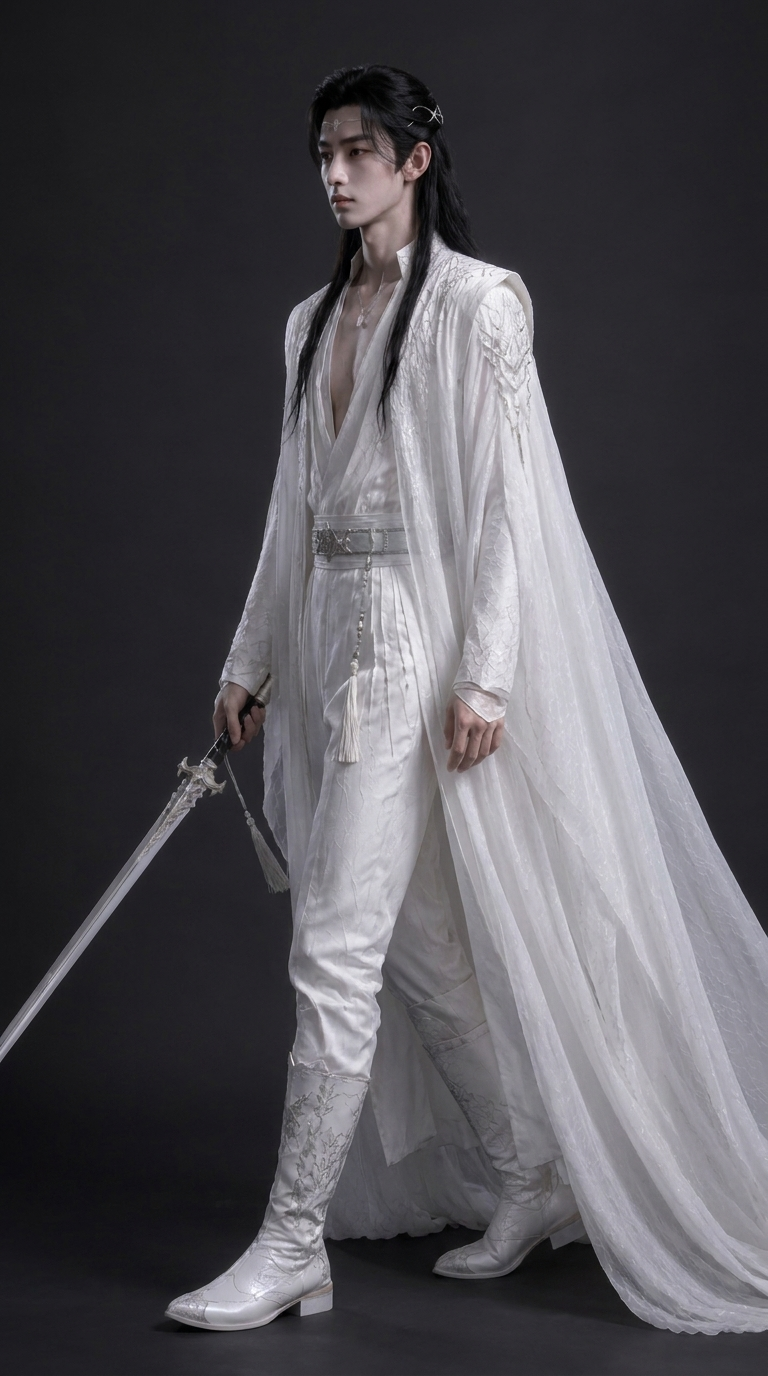
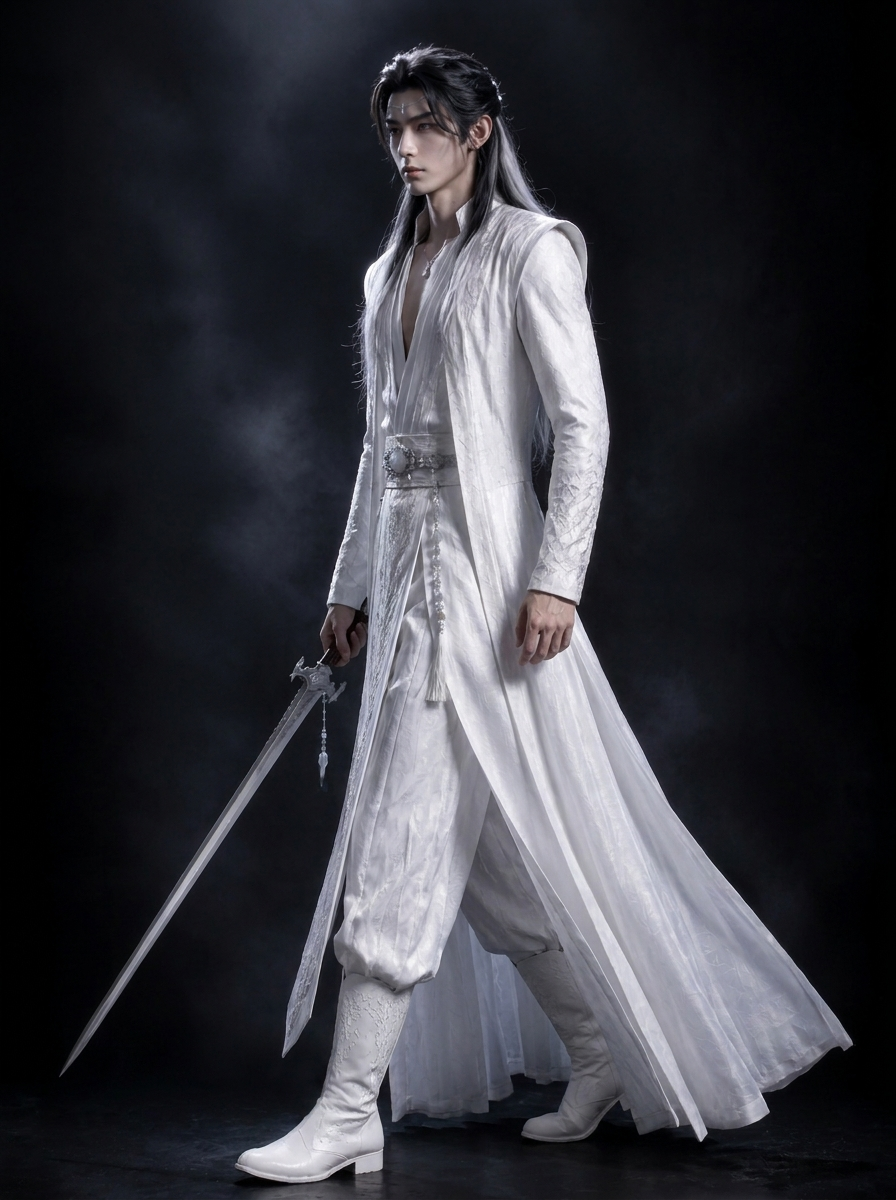
王玄晏全身5张替换为新版，正面全身更新为冰蓝眼定制肖像

diff --git a/index.html b/index.html
@@ -168,6 +168,8 @@ body{background:#0a0a14;color:#ede4d4;font-family:"PingFang SC","Noto Serif SC",
 <div class="nav-major">白狐狐侍</div>
 <a href="#bible-hushi" data-nav="hushi-bible">狐侍造型圣经</a>
 <a href="#sec-hushi" data-nav="hushi">🦊 白狐狐侍</a>
+<div class="nav-major">众人祭祀</div>
+<a href="#sec-ritual-all" data-nav="ritual-all">⛩ 祭祀礼服</a>
 </div>
 </nav>
 
@@ -687,7 +689,7 @@ const scenes=[
 {file:"狐祖归来_临渊_仰视角度.png",name:"临渊 · 仰视角度",script:"临渊仰视——自下而上，下颌线条与眼神的高位感",section:"🌊 临渊面部"},
 
 // ── 王玄晏 ──
-{file:"狐祖归来_王玄晏_正面全身.png",name:"玄晏 · 正面全身",script:"王玄晏正面——冰蓝眼眸如霜，银链额饰衔星芒，深V领口展锁骨，清冷不可近",section:"🦊 王玄晏全身"},
+{file:"狐祖归来_王玄晏_正面全身.png",name:"玄晏 · 正面全身",script:"王玄晏正面——冰蓝眼眸如霜，银链额饰星芒，深V领口锁骨微露，清冷仙姿",section:"🦊 王玄晏全身"},
 {file:"狐祖归来_王玄晏_背面全身.png",name:"玄晏 · 背面全身",script:"王玄晏背面——宽肩束腰，背影如山，狐族掌权者的压迫感",section:"🦊 王玄晏全身"},
 {file:"狐祖归来_王玄晏_侧面全身.png",name:"玄晏 · 侧面全身",script:"王玄晏侧面——侧颜棱角分明，身姿挺拔如松",section:"🦊 王玄晏全身"},
 {file:"狐祖归来_王玄晏_动态站姿.png",name:"玄晏 · 动态站姿",script:"王玄晏动态——衣袍微动，步态沉稳，王者之姿",section:"🦊 王玄晏全身"},
